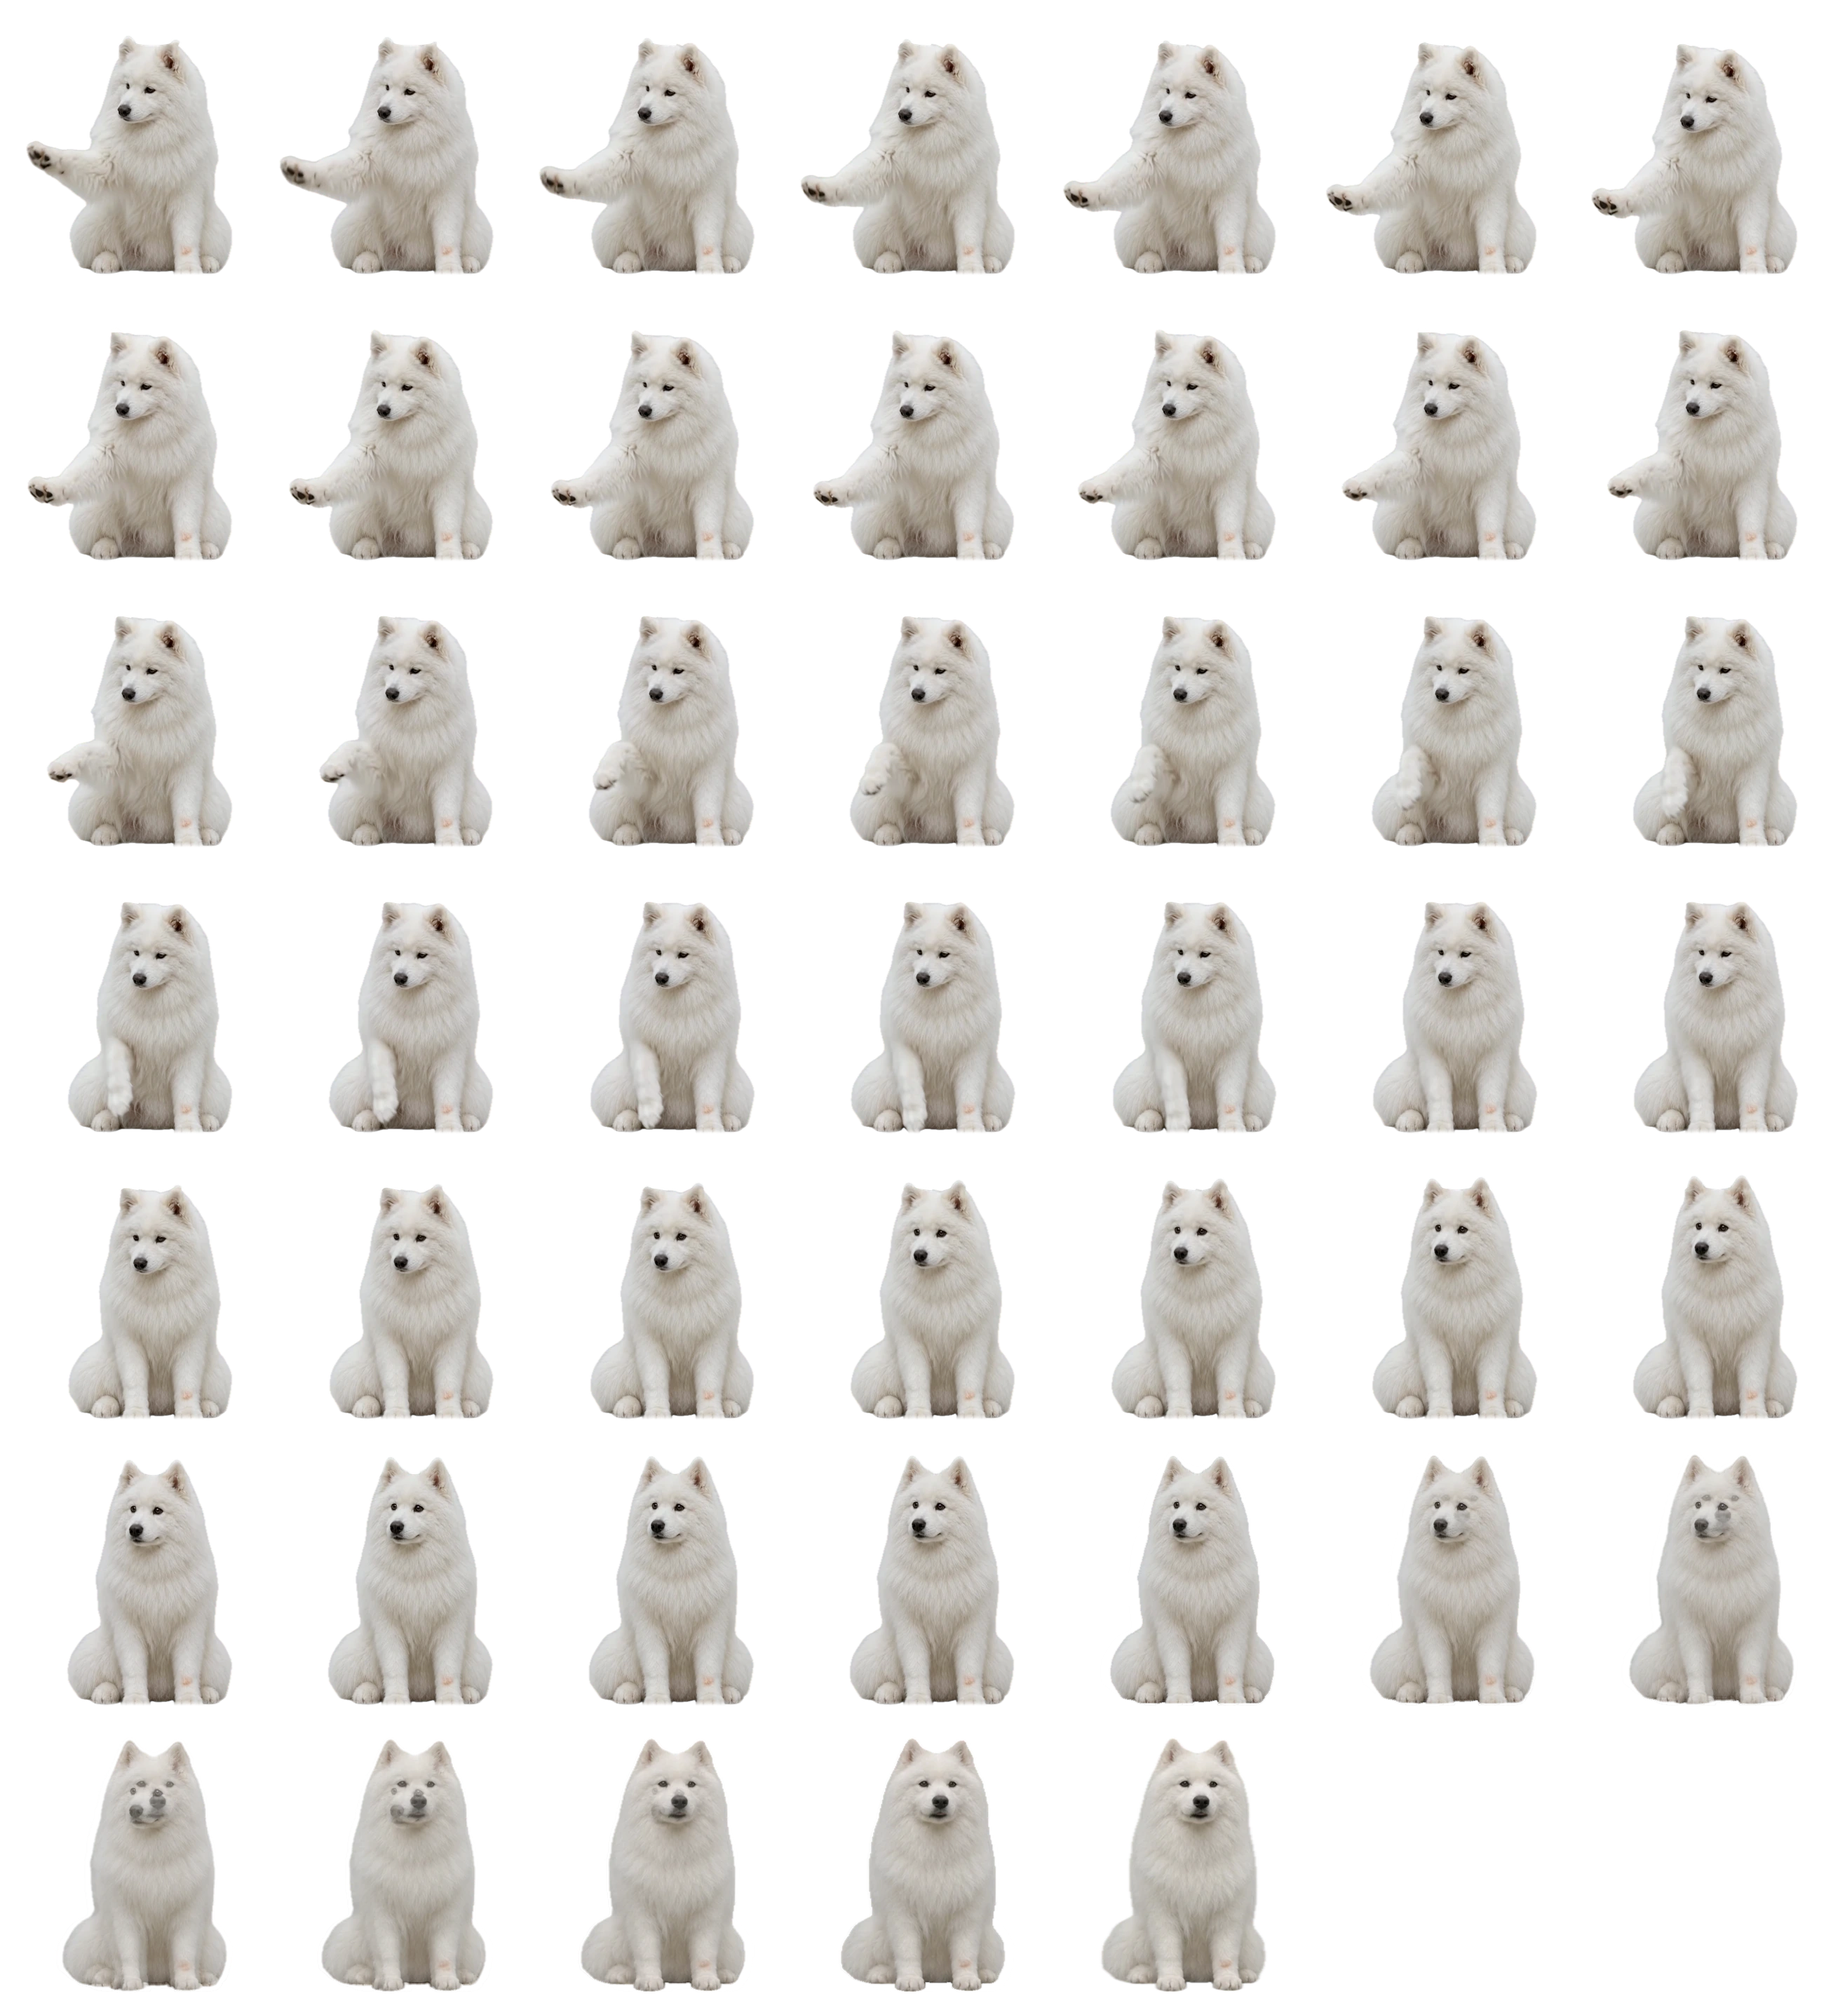
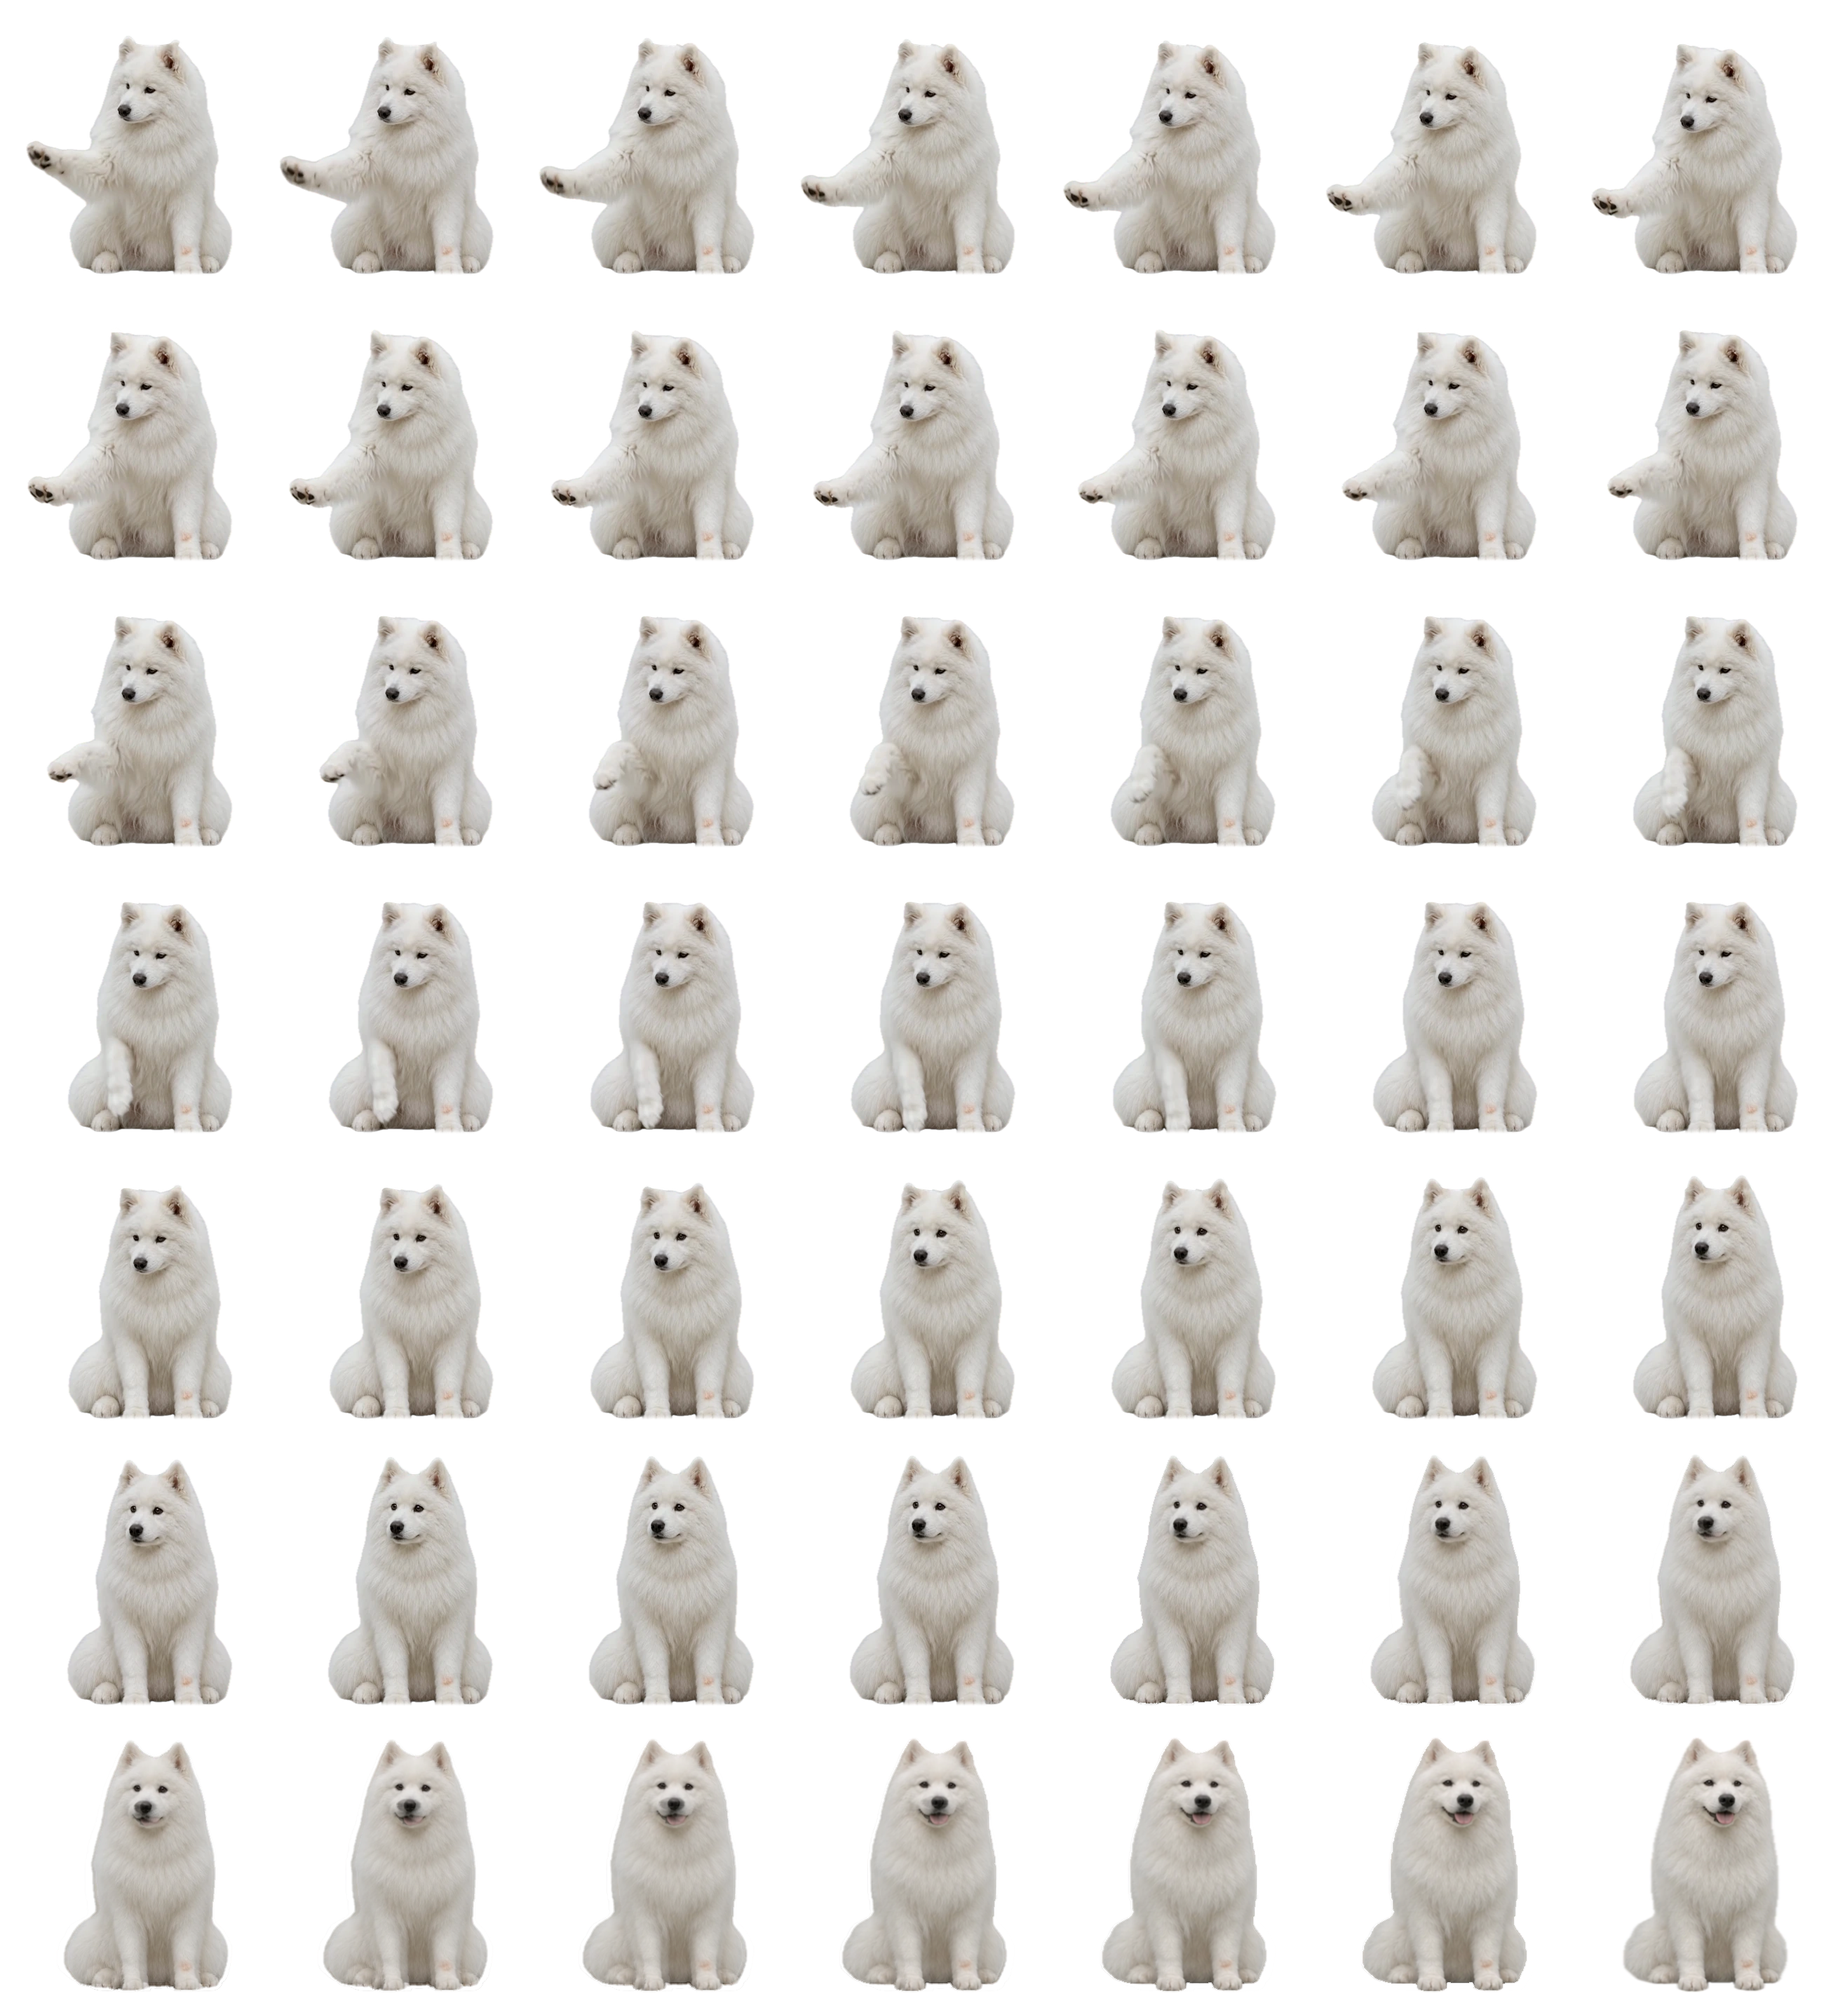
Release KuroCat 1.1.2 with smoother Duorou transitions

diff --git a/src/pets/duorou/index.ts b/src/pets/duorou/index.ts
@@ -52,6 +52,7 @@ function sceneCanvas(scale: number) {
 
 export async function loadDuorou(engine: KuroCatEngine) {
   const idleClips = [videos.approvedIdle.look, videos.approvedIdle.pat];
+  const breathingStart = videos.rest.breathe[0];
   // Keep the atlases from competing for decoding memory when the pet loads.
   const gazeFrames = await loadPages('gaze-page', frames.hdGaze.pages);
   const pawFrames = await loadPages('paws', frames.dualPaws.pages);
@@ -85,7 +86,7 @@ export async function loadDuorou(engine: KuroCatEngine) {
   let gaze = createGaze();
   let look = createGazeController();
   let rest = createRestMotion(videos.rest);
-  let idleActions = createIdleActions(idleClips);
+  let idleActions = createIdleActions(idleClips, breathingStart);
   let heldLook = createHeldLook(videos.held);
   let mouseClick = createMouseClickMotion();
   let paws = createPaws();
@@ -112,7 +113,7 @@ export async function loadDuorou(engine: KuroCatEngine) {
       gaze = createGaze();
       look = createGazeController();
       rest = createRestMotion(videos.rest);
-      idleActions = createIdleActions(idleClips);
+      idleActions = createIdleActions(idleClips, breathingStart);
       heldLook = createHeldLook(videos.held);
       mouseClick = createMouseClickMotion();
       paws = createPaws();
@@ -199,13 +200,15 @@ export async function loadDuorou(engine: KuroCatEngine) {
       const facingFront = gaze.pose().sourceFrames[0] === 0 && !gaze.pose().nod;
       if (legacyUpper && !needsLegacy && facingFront) legacyUpper = false;
 
-      const idleAction = idleActions.step(now, idleSince, idle && facingFront, lastRest === 0, !wantsSleep);
+      const action = idleActions.step(now, idleSince, idle && facingFront, lastRest, !wantsSleep);
+      const idleAction = action?.resumeBreathing ? null : action;
       const sleeping = wantsSleep && facingFront && !idleAction;
       if (sleeping) dozeSince ??= now;
       else dozeSince = null;
       const expression = sleeping ? 'sleep' : facingFront && hover ? 'hover' :
         facingFront && idle && !idleAction && idleFor > 300 ? 'idle' : null;
-      const restFrame = rest.step(dt, expression);
+      const lookStarting = idleAction?.clip === 0 && idleAction.frame === idleClips[0].frames[0];
+      const restFrame = action?.resumeBreathing || lookStarting ? rest.resumeBreathing() : rest.step(dt, expression);
       if (restFrame !== lastRest) {
         restBody.ctx.clearRect(0, 0, width, height);
         restAtlas.draw(restBody.ctx, restFrame);

diff --git a/src/pets/duorou/video-motion.js b/src/pets/duorou/video-motion.js
@@ -27,14 +27,14 @@ export function createVideoAtlas(pages, data) {
 
 const idleActionDelay = 10_000;
 
-export function createIdleActions(clips) {
+export function createIdleActions(clips, breathingFrame) {
   let lastActivity = null;
   let nextAt = 0;
   let active = null;
   let nextClip = 0;
 
   return {
-    step(now, idleSince, eligible, resting, mayStart = true) {
+    step(now, idleSince, eligible, restFrame, mayStart = true) {
       if (lastActivity !== idleSince || !eligible) {
         lastActivity = idleSince;
         nextAt = idleSince + idleActionDelay;
@@ -44,19 +44,25 @@ export function createIdleActions(clips) {
 
       if (!active) {
         if (!mayStart) return null;
-        // Let breathing return to the shared resting pose before the clip starts.
-        if (!resting) return { clip: nextClip, frame: null };
+        const { startFromBreathing = false } = clips[nextClip];
+        if (startFromBreathing) {
+          if (restFrame !== breathingFrame) return null;
+        } else if (restFrame !== 0) {
+          return { clip: nextClip, frame: null };
+        }
         active = { clip: nextClip, start: now };
         nextClip = (nextClip + 1) % clips.length;
       }
 
-      const { frames, fps } = clips[active.clip];
+      const { frames, fps, resumeBreathing = false } = clips[active.clip];
       const index = Math.floor((now - active.start) * fps / 1000);
-      if (index < frames.length) return { clip: active.clip, frame: frames[index] };
+      // The final slot of a breathing handoff is drawn by the rest animation.
+      if (index < frames.length - Number(resumeBreathing)) return { clip: active.clip, frame: frames[index] };
 
+      const clip = active.clip;
       active = null;
       nextAt = now + idleActionDelay;
-      return null;
+      return resumeBreathing ? { clip, frame: null, resumeBreathing } : null;
     },
   };
 }
@@ -133,6 +139,10 @@ export function createRestMotion(data) {
   }
 
   return {
+    resumeBreathing() {
+      select('breathe');
+      return data.breathe[0];
+    },
     step(dt, intent) {
       const active = intent !== null;
       const wantsClosed = intent === 'hover' || intent === 'sleep';
